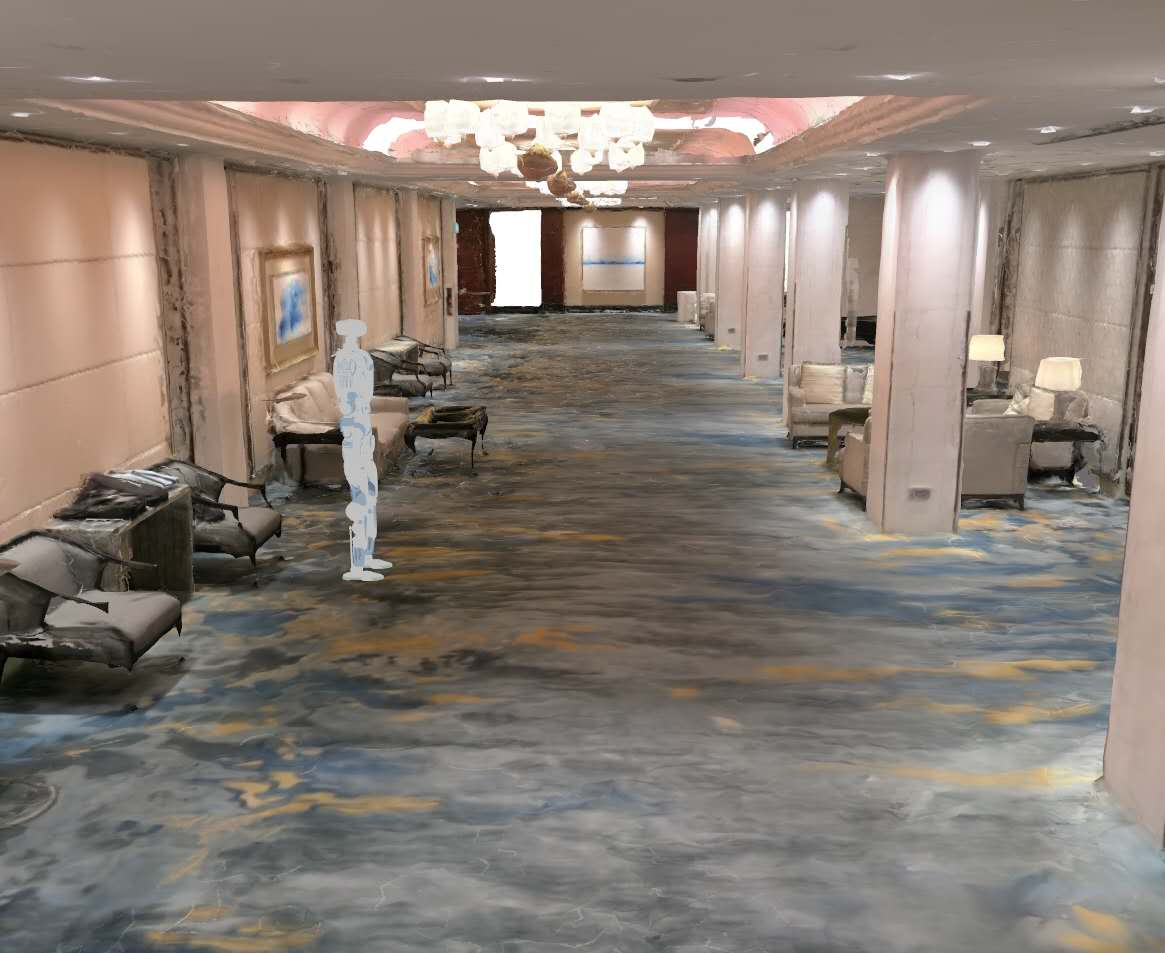
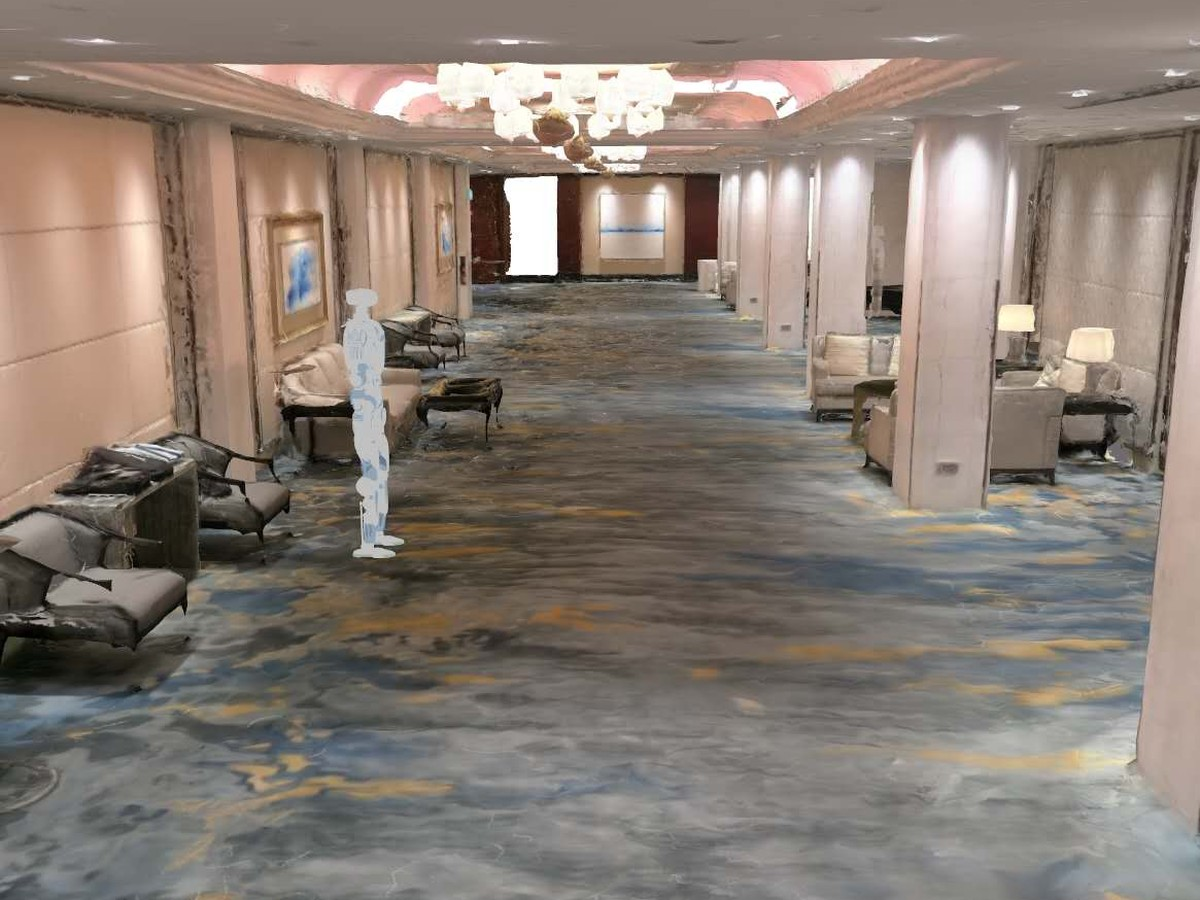
docs: add demo videos to README, unify hall photo size
- Office-floor video under the intro and penthouse video under the hall section, as looping GIF previews that link to the mp4
- Hall photos center-cropped to 4:3, 1200x900
- Title and clone URL point to 3DGS_Scenes

diff --git a/README.md b/README.md
@@ -1,8 +1,15 @@
-# 3DGS_Scenes_Private
+# 3DGS_Scenes
 
 **English** | [中文](README.zh-CN.md)
 
 Real indoor spaces captured with 3D Gaussian Splatting (3DGS) and turned into ready-to-load **MuJoCo** simulation scenes for legged-robot navigation and perception.
+
+### 3DGS scenes
+
+<p align="center">
+  <a href="docs/media/office5f_navigation_demo.mp4"><img src="docs/media/office5f_navigation_demo.gif" width="100%"></a>
+</p>
+<p align="center"><sub><b>Office floor</b>: navigation demo (6× speed, click for the full 90 s video)</sub></p>
 
 Each scene has three aligned layers:
 
@@ -29,6 +36,13 @@ Each scene has three aligned layers:
   <img src="docs/media/hall_banquet_room.jpg" width="49%">
 </p>
 
+### Penthouse
+
+<p align="center">
+  <a href="docs/media/penthouse_humanoid_demo.mp4"><img src="docs/media/penthouse_humanoid_demo.gif" width="100%"></a>
+</p>
+<p align="center"><sub><b>Penthouse</b>: humanoid demo (click for the video)</sub></p>
+
 ## What went into the scenes
 
 - **Floor drift removal.** Scans bend by up to ~0.27 m over a floor. A measured drift field is removed from the mesh, the SDF and the `.ply` together, so all three layers stay aligned (camera vs. collision: ~13 mm).
@@ -43,8 +57,8 @@ Each scene has three aligned layers:
 Requirements: Python 3, MuJoCo 3.2.3, and the `sdfvoxel` SDF plugin (`libsdfvoxel.so`, not included in this repo).
 
 ```bash
-git clone https://github.com/eiche-1206/3DGS_Scenes_Private.git
-cd 3DGS_Scenes_Private
+git clone https://github.com/eiche-1206/3DGS_Scenes.git
+cd 3DGS_Scenes
 pip install mujoco==3.2.3
 
 # Open a scene in the MuJoCo viewer

diff --git a/README.zh-CN.md b/README.zh-CN.md
@@ -1,8 +1,15 @@
-# 3DGS_Scenes_Private
+# 3DGS_Scenes
 
 [English](README.md) | **中文**
 
 用 3D 高斯泼溅（3DGS）扫描的真实室内空间，转换成可以直接加载的 **MuJoCo** 仿真场景，用于足式机器人的导航与感知仿真。
+
+### 3DGS场景
+
+<p align="center">
+  <a href="docs/media/office5f_navigation_demo.mp4"><img src="docs/media/office5f_navigation_demo.gif" width="100%"></a>
+</p>
+<p align="center"><sub><b>办公室楼层</b>：导航演示（6 倍速，点击查看完整 90 秒视频）</sub></p>
 
 每个场景包含三层，彼此对齐：
 
@@ -29,6 +36,13 @@
   <img src="docs/media/hall_banquet_room.jpg" width="49%">
 </p>
 
+### 顶层公寓
+
+<p align="center">
+  <a href="docs/media/penthouse_humanoid_demo.mp4"><img src="docs/media/penthouse_humanoid_demo.gif" width="100%"></a>
+</p>
+<p align="center"><sub><b>顶层公寓</b>：人形机器人演示（点击查看视频）</sub></p>
+
 ## 做了哪些处理
 
 - **去除地面漂移。** 扫描的地面整体会弯曲，最多约 0.27 m。实测出漂移场后，对网格、SDF 和 `.ply` 一起校正，三层保持对齐（相机层与碰撞层约差 13 mm）。
@@ -43,8 +57,8 @@
 环境：Python 3、MuJoCo 3.2.3，以及 `sdfvoxel` SDF 插件（`libsdfvoxel.so`，本仓库不包含）。
 
 ```bash
-git clone https://github.com/eiche-1206/3DGS_Scenes_Private.git
-cd 3DGS_Scenes_Private
+git clone https://github.com/eiche-1206/3DGS_Scenes.git
+cd 3DGS_Scenes
 pip install mujoco==3.2.3
 
 # 在 MuJoCo viewer 中打开场景
